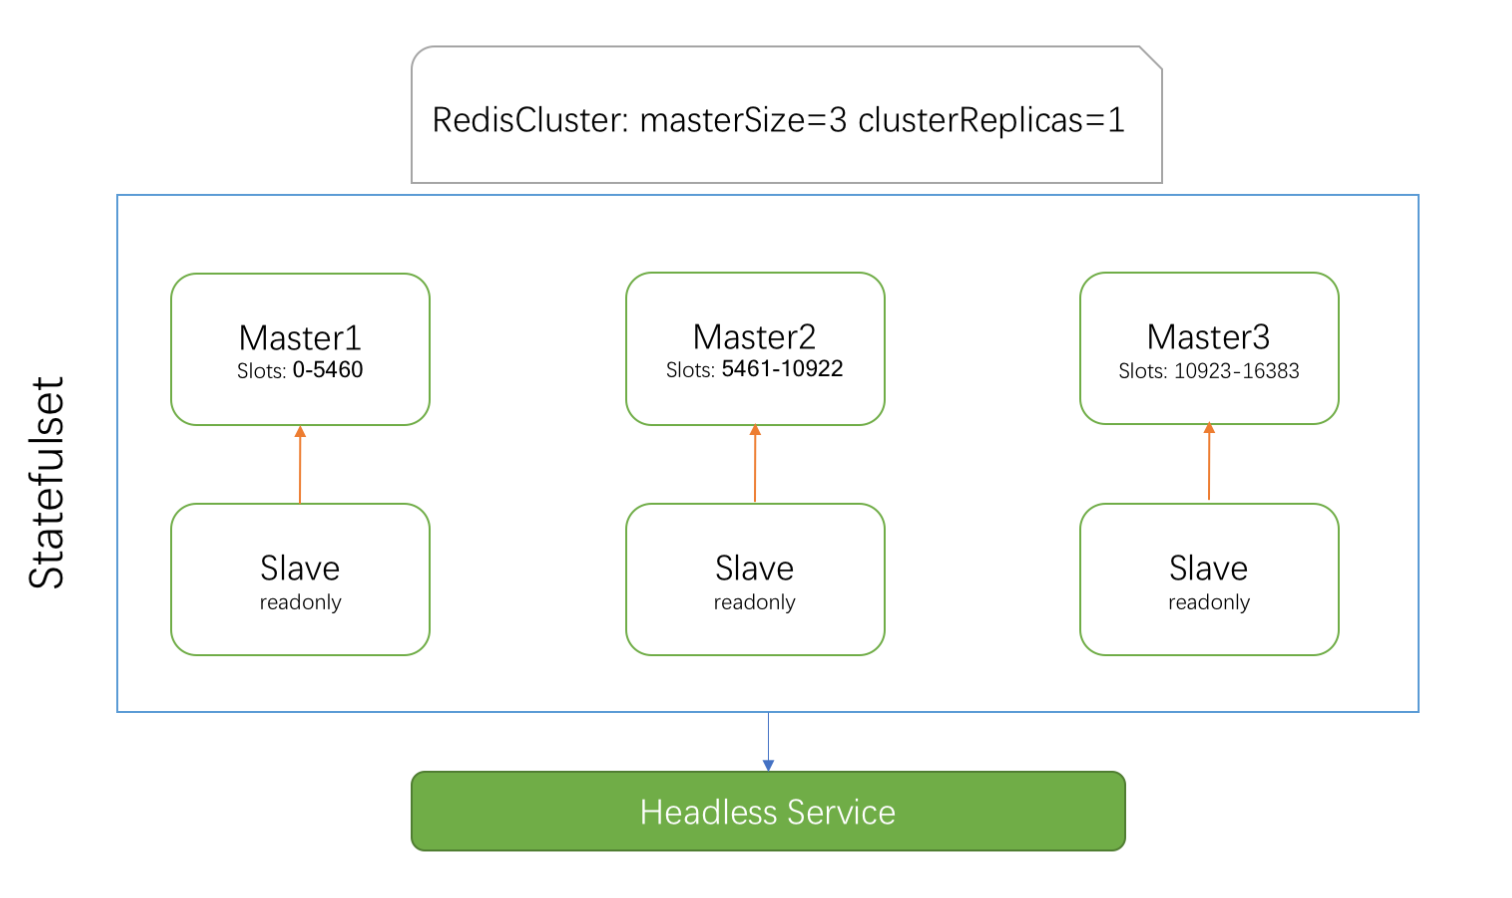
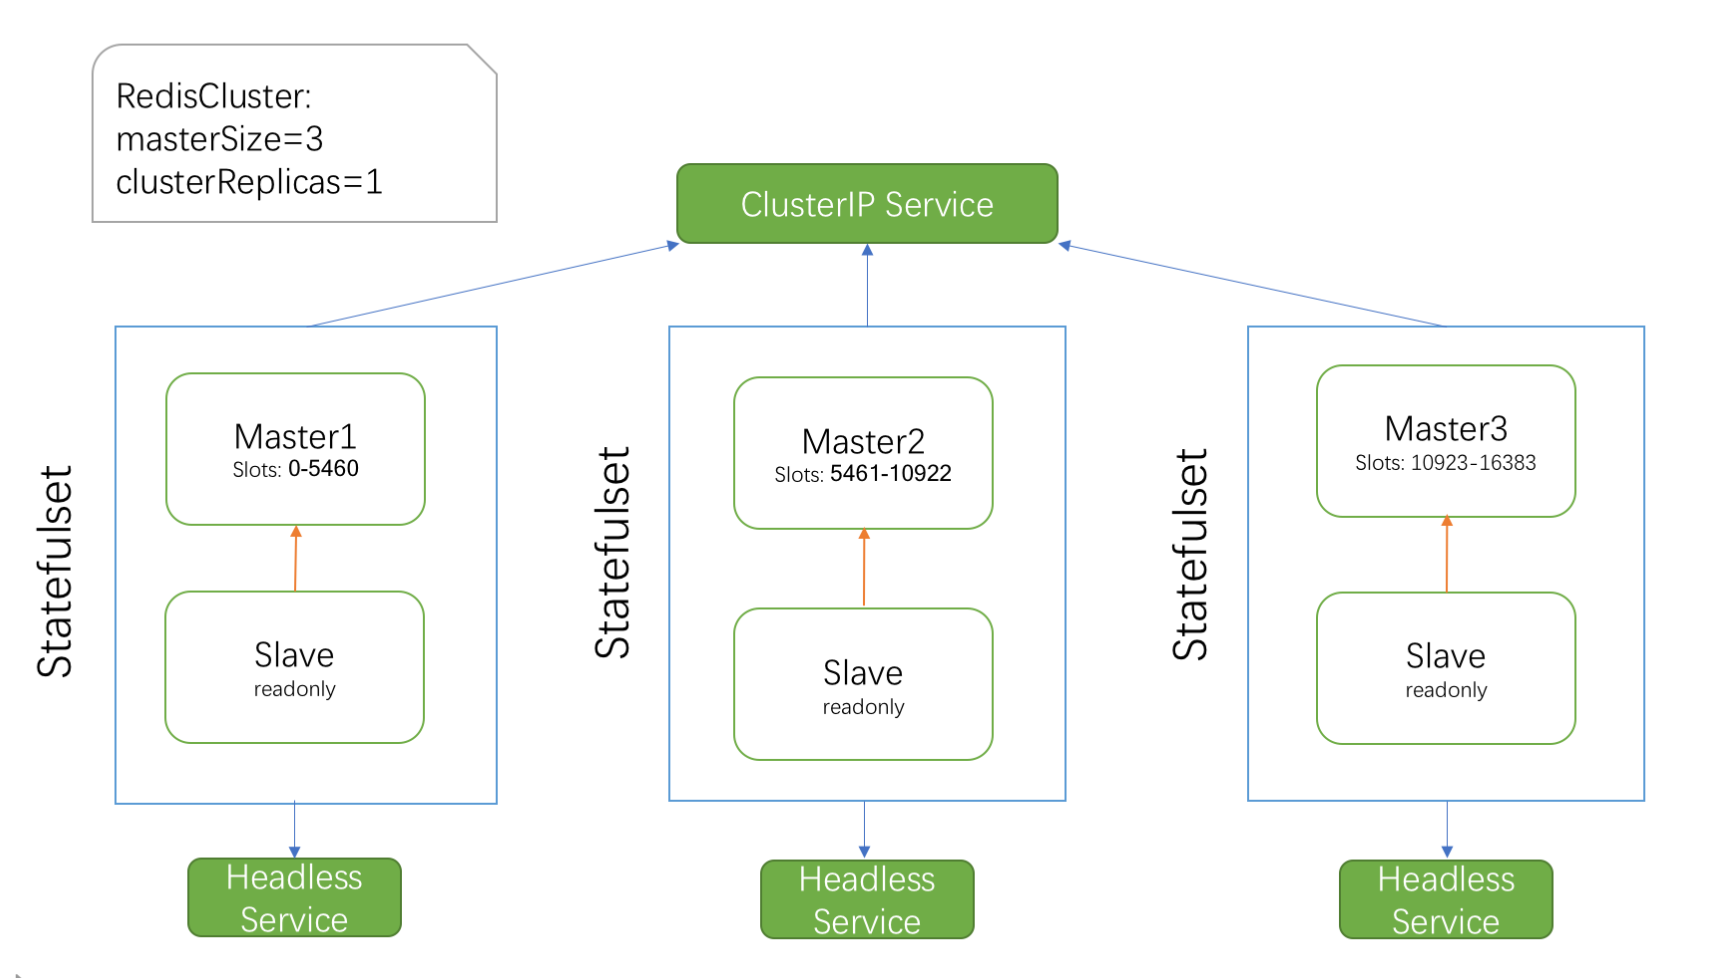
update readme and deploy file

diff --git a/README.md b/README.md
@@ -1,4 +1,4 @@
-# redis-operator
+# redis-cluster-operator
 
 ## Overview
 
@@ -7,6 +7,9 @@ Redis Cluster Operator manages [Redis Cluster](https://redis.io/topics/cluster-s
 The operator itself is built with the [Operator framework](https://github.com/operator-framework/operator-sdk).
 
 ![Redis Cluster atop Kubernetes](/static/redis-cluster.png)
+
+Each master node and its slave nodes is managed by a statefulSet, create a headless svc for each statefulSet,
+and create a clusterIP service for all nodes.
 
 ## Prerequisites
 
@@ -76,37 +79,64 @@ NAME                              MASTERSIZE   STATUS    AGE
 example-distributedrediscluster   3            Scaling   11s
 
 $ kubectl get all -l redis.kun/name=example-distributedrediscluster
-NAME                                        READY   STATUS    RESTARTS   AGE
-pod/drc-example-distributedrediscluster-0   1/1     Running   0          4m5s
-pod/drc-example-distributedrediscluster-1   1/1     Running   0          3m31s
-pod/drc-example-distributedrediscluster-2   1/1     Running   0          2m54s
-pod/drc-example-distributedrediscluster-3   1/1     Running   0          2m20s
-pod/drc-example-distributedrediscluster-4   1/1     Running   0          103s
-pod/drc-example-distributedrediscluster-5   1/1     Running   0          62s
+NAME                                          READY   STATUS    RESTARTS   AGE
+pod/drc-example-distributedrediscluster-0-0   1/1     Running   0          2m48s
+pod/drc-example-distributedrediscluster-0-1   1/1     Running   0          2m8s
+pod/drc-example-distributedrediscluster-1-0   1/1     Running   0          2m48s
+pod/drc-example-distributedrediscluster-1-1   1/1     Running   0          2m13s
+pod/drc-example-distributedrediscluster-2-0   1/1     Running   0          2m48s
+pod/drc-example-distributedrediscluster-2-1   1/1     Running   0          2m15s
 
-NAME                                      TYPE        CLUSTER-IP   EXTERNAL-IP   PORT(S)              AGE
-service/example-distributedrediscluster   ClusterIP   None         <none>        6379/TCP,16379/TCP   4m5s
+NAME                                        TYPE        CLUSTER-IP      EXTERNAL-IP   PORT(S)              AGE
+service/example-distributedrediscluster     ClusterIP   172.17.132.71   <none>        6379/TCP,16379/TCP   2m48s
+service/example-distributedrediscluster-0   ClusterIP   None            <none>        6379/TCP,16379/TCP   2m48s
+service/example-distributedrediscluster-1   ClusterIP   None            <none>        6379/TCP,16379/TCP   2m48s
+service/example-distributedrediscluster-2   ClusterIP   None            <none>        6379/TCP,16379/TCP   2m48s
 
-NAME                                                   READY   AGE
-statefulset.apps/drc-example-distributedrediscluster   6/6     4m5s
+NAME                                                     READY   AGE
+statefulset.apps/drc-example-distributedrediscluster-0   2/2     2m48s
+statefulset.apps/drc-example-distributedrediscluster-1   2/2     2m48s
+statefulset.apps/drc-example-distributedrediscluster-2   2/2     2m48s
 
 $ kubectl get distributedrediscluster
 NAME                              MASTERSIZE   STATUS    AGE
 example-distributedrediscluster   3            Healthy   4m
 ```
 
-#### Scaling the Redis Cluster
+#### Scaling Up the Redis Cluster
 
-Increase the masterSize to trigger the scaling.
+Increase the masterSize to trigger the scaling up.
 
 ```
 apiVersion: redis.kun/v1alpha1
 kind: DistributedRedisCluster
 metadata:
+  annotations:
+    # if your operator run as cluster-scoped, add this annotations
+    redis.kun/scope: cluster-scoped
   name: example-distributedrediscluster
 spec:
   # Increase the masterSize to trigger the scaling.
   masterSize: 4
+  ClusterReplicas: 1
+  image: redis:5.0.4-alpine
+```
+
+#### Scaling Down the Redis Cluster
+
+Decrease the masterSize to trigger the scaling down.
+
+```
+apiVersion: redis.kun/v1alpha1
+kind: DistributedRedisCluster
+metadata:
+  annotations:
+    # if your operator run as cluster-scoped, add this annotations
+    redis.kun/scope: cluster-scoped
+  name: example-distributedrediscluster
+spec:
+  # Increase the masterSize to trigger the scaling.
+  masterSize: 3
   ClusterReplicas: 1
   image: redis:5.0.4-alpine
 ```
@@ -147,7 +177,7 @@ $ kubectl create -f deploy/example/persistent.yaml
 $ kubectl create -f deploy/example/custom-config.yaml
 ```
 
-#### Custom Headless Service
+#### Custom Service
 
 ```
 $ kubectl create -f deploy/example/custom-service.yaml
